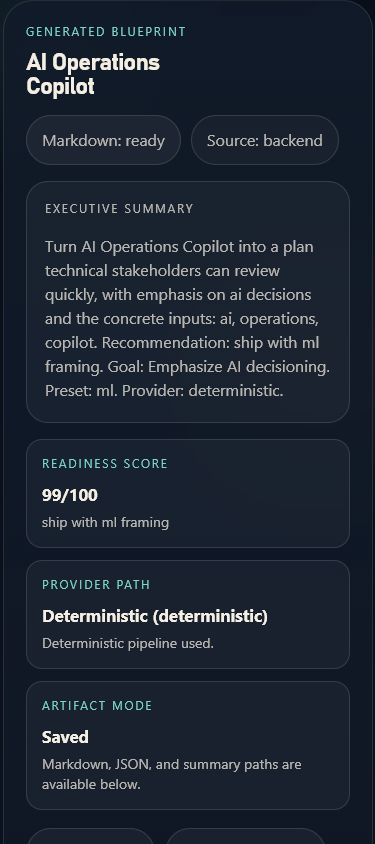
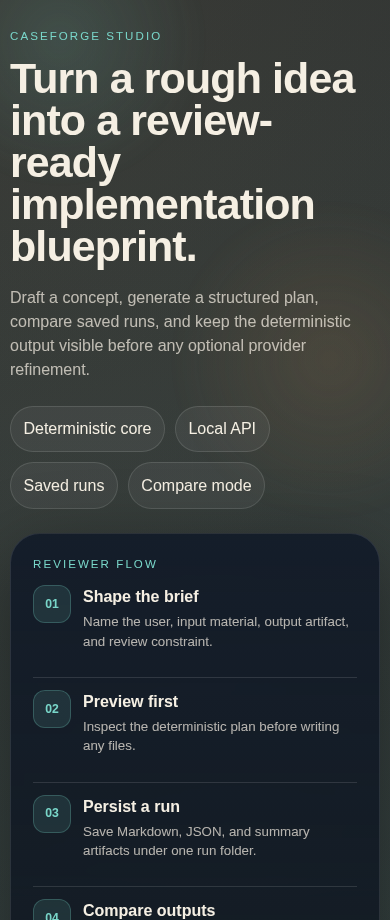
Improve CaseForge product walkthrough impact

diff --git a/caseforge/web/styles.css b/caseforge/web/styles.css
@@ -119,7 +119,7 @@ button:active {
 }
 
 .hero-copy h1 {
-  max-width: 11ch;
+  max-width: 9.8ch;
   font-size: clamp(3rem, 7vw, 6rem);
 }
 
@@ -646,6 +646,32 @@ body.is-busy .primary {
   color: var(--text-muted);
 }
 
+.compare-decision {
+  margin-bottom: 12px;
+  padding: 14px 16px;
+  border: 1px solid rgba(19, 78, 74, 0.16);
+  border-radius: var(--radius-md);
+  background: linear-gradient(135deg, rgba(20, 184, 166, 0.12), rgba(255, 255, 255, 0.94));
+  box-shadow: 0 14px 36px rgba(15, 23, 42, 0.08);
+}
+
+.compare-decision span {
+  display: block;
+  margin-bottom: 4px;
+  color: var(--accent-strong);
+  font-size: 0.74rem;
+  font-weight: 800;
+  letter-spacing: 0.06em;
+  text-transform: uppercase;
+}
+
+.compare-decision p {
+  margin: 0;
+  color: var(--text);
+  font-weight: 650;
+  line-height: 1.55;
+}
+
 .compare-grid {
   display: grid;
   grid-template-columns: repeat(2, minmax(0, 1fr));
@@ -936,7 +962,9 @@ html.ready .panel.dossier {
   }
 
   .hero-copy h1 {
-    max-width: 100%;
+    max-width: 9.4ch;
+    letter-spacing: -0.025em;
+    overflow-wrap: break-word;
   }
 
   .workflow-strip,
@@ -953,6 +981,24 @@ html.ready .panel.dossier {
 
   .hero {
     padding-top: 28px;
+  }
+
+  .hero-copy h1 {
+    max-width: 100%;
+    font-size: clamp(2.45rem, 11vw, 3.7rem);
+    letter-spacing: -0.02em;
+    overflow-wrap: break-word;
+  }
+
+  .lede {
+    font-size: 1rem;
+  }
+
+  .hero-badges span,
+  .status-chip,
+  .preset,
+  .pill {
+    padding: 0.65rem 0.78rem;
   }
 
   .panel,

diff --git a/caseforge/web/app.js b/caseforge/web/app.js
@@ -46,6 +46,15 @@ const compareSelection = new Set();
 const formStateKey = 'caseforge:formState';
 
 const presetBriefs = {
+  'release-planner': {
+    brief:
+      'Build a release readiness planner that turns incident notes, service metrics, owner comments, and follow-up tasks into an action plan with risks, owners, validation checks, and next-step recommendations for an engineering lead.',
+    audience: 'Engineering lead',
+    mode: 'Workflow product',
+    goal: 'Drive implementation clarity',
+    preset: 'full-stack',
+    provider: 'deterministic',
+  },
   'ai-copilot': {
     brief:
       'Build an AI operations copilot that turns incident notes, service metrics, and follow-up tasks into a release-ready action plan.',
@@ -92,15 +101,15 @@ function bootstrap() {
   } else if (savedBrief) {
     projectBrief.value = savedBrief;
   } else {
-    loadPreset('ai-copilot', { persist: false });
+    loadPreset('release-planner', { persist: false });
   }
 
   updateMeta();
   renderDossier(buildLocalDossier(buildPayload()), { source: 'local sample' });
-  setStatus('Local sample blueprint loaded. Use Preview or Forge blueprint to run the backend.', 'pending');
+  setStatus('Release planner sample loaded. Preview without saving, then forge a run to create export files.', 'pending');
   setAlert(
-    'Start with a preview.',
-    'The local sample shows layout only. Preview uses the backend without saving; Forge blueprint creates export files.',
+    'Start with the release planner sample.',
+    'Preview uses the backend without saving. Forge blueprint creates Markdown, JSON, and summary exports that can be compared against later runs.',
     'info',
   );
   renderCompareSelectionState();
@@ -709,7 +718,14 @@ function renderComparison(payload) {
   const summary = document.createElement('p');
   summary.className = 'compare-summary';
   summary.textContent = payload.summary || 'Comparison loaded.';
-  compareResult.appendChild(summary);
+  const decision = document.createElement('div');
+  decision.className = 'compare-decision';
+  const decisionLabel = document.createElement('span');
+  decisionLabel.textContent = 'Decision note';
+  const decisionCopy = document.createElement('p');
+  decisionCopy.textContent = payload.decision_note || 'Use the comparison to decide which run is strong enough to become the implementation handoff.';
+  decision.append(decisionLabel, decisionCopy);
+  compareResult.append(decision, summary);
 
   const grid = document.createElement('div');
   grid.className = 'compare-grid';

diff --git a/caseforge/web/index.html b/caseforge/web/index.html
@@ -65,7 +65,7 @@
             name="projectBrief"
             rows="8"
             minlength="20"
-            placeholder="Example: Build an AI operations copilot that turns incident notes, service metrics, and follow-up tasks into a release-ready action plan."
+            placeholder="Example: Build a release readiness planner that turns incident notes, service metrics, owner comments, and follow-up tasks into an action plan with risks, owners, checks, and next steps."
             required
           ></textarea>
         </label>
@@ -132,9 +132,9 @@
         </div>
 
         <div class="preset-row" aria-label="Preset prompts">
+          <button class="preset" type="button" data-preset="release-planner">Release planner</button>
           <button class="preset" type="button" data-preset="ai-copilot">AI ops copilot</button>
           <button class="preset" type="button" data-preset="ops-brief">Ops copilot</button>
-          <button class="preset" type="button" data-preset="study-lens">Study lens</button>
           <button class="preset" type="button" data-preset="founder-note">Founder note</button>
         </div>
 

diff --git a/caseforge/service.py b/caseforge/service.py
@@ -100,6 +100,7 @@ class DossierService:
             "winner_slug": winner_slug,
             "score_delta": score_delta,
             "summary": self._comparison_summary(items, winner_slug, score_delta),
+            "decision_note": self._comparison_decision_note(items, winner_slug, score_delta),
         }
 
     def _brief_from_payload(self, payload: dict[str, object]) -> ProjectBrief:
@@ -309,4 +310,22 @@ class DossierService:
             f"{winner['title']} leads {loser['title']} by {score_delta} points. "
             f"Recommendation: {winner['recommendation']}. "
             f"Compare the provider path and top risk before choosing the stronger saved blueprint."
+        )
+
+    @staticmethod
+    def _comparison_decision_note(items: list[dict[str, object]], winner_slug: str | None, score_delta: int) -> str:
+        left = items[0]
+        right = items[1]
+        if winner_slug is None:
+            return (
+                f"{left['title']} and {right['title']} are close enough that the delivery context should decide. "
+                "Review the top risk, provider path, and target reviewer before turning either run into a handoff."
+            )
+
+        winner = left if left["slug"] == winner_slug else right
+        loser = right if winner is left else left
+        return (
+            f"Start from {winner['title']}: it leads {loser['title']} by {score_delta} readiness points "
+            "and gives the clearer implementation handoff. Keep the alternate run as a source of risks, "
+            "requirements, or framing that may still be useful."
         )

diff --git a/tests/test_caseforge.py b/tests/test_caseforge.py
@@ -191,6 +191,9 @@ class CaseForgeTests(unittest.TestCase):
         self.assertEqual(comparison["items"][0]["slug"], first.slug)
         self.assertEqual(comparison["items"][1]["slug"], second.slug)
         self.assertIn("summary", comparison)
+        self.assertIn("decision_note", comparison)
+        self.assertIsInstance(comparison["decision_note"], str)
+        self.assertGreater(len(comparison["decision_note"]), 40)
         self.assertIsInstance(comparison["score_delta"], int)
         self.assertIn(comparison["winner_slug"], {first.slug, second.slug, None})
 
@@ -419,6 +422,9 @@ class CaseForgeTests(unittest.TestCase):
         self.assertIn("function setAlert", app_js)
         self.assertIn("exportJsonPath.textContent", app_js)
         self.assertIn("caseforge:formState", app_js)
+        self.assertIn("release-planner", app_js)
+        self.assertIn("compare-decision", app_js)
+        self.assertIn("decision_note", app_js)
         self.assertIn("Local Product Walkthrough", readme)
         self.assertNotIn("## Feature Set", readme)
 

diff --git a/README.md b/README.md
@@ -4,6 +4,13 @@ CaseForge Studio turns a rough product idea into an implementation blueprint tha
 
 The core thesis is simple: a useful idea should become scoped, explainable, comparable, and ready for a delivery conversation. CaseForge turns vague prompts into reviewable artifacts instead of treating the generated text as the final answer.
 
+## Useful In Practice For
+
+- Turning a rough implementation brief into a structured planning dossier that can be reviewed before coding starts.
+- Comparing two alternate delivery framings when the first generated plan is not strong enough.
+- Producing Markdown, JSON, and summary artifacts that make a planning run easy to hand off or revisit later.
+- Demonstrating how an optional AI provider can sit behind a deterministic product path instead of becoming the whole product.
+
 ## What This Project Proves
 
 - Deterministic by default, so the product remains usable without external services.